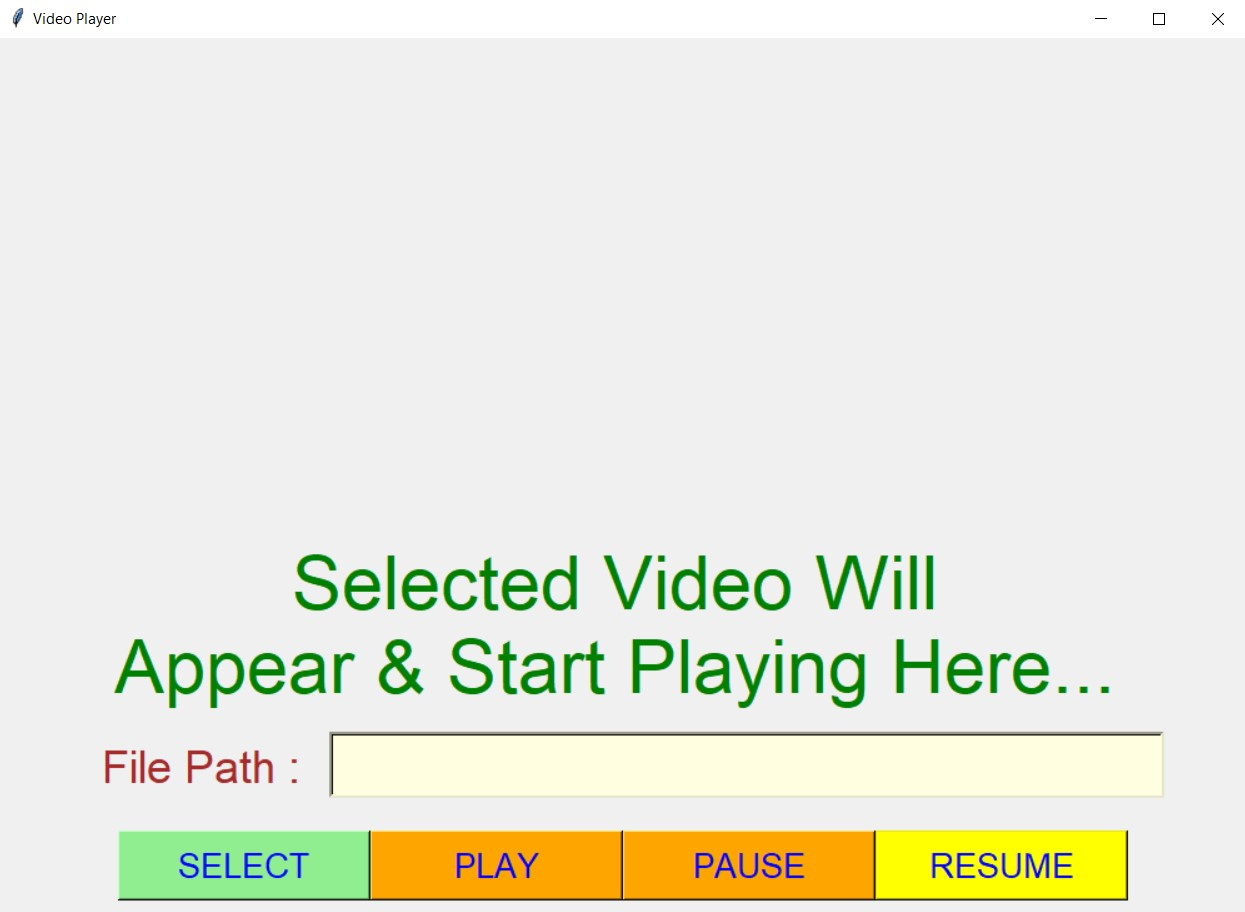
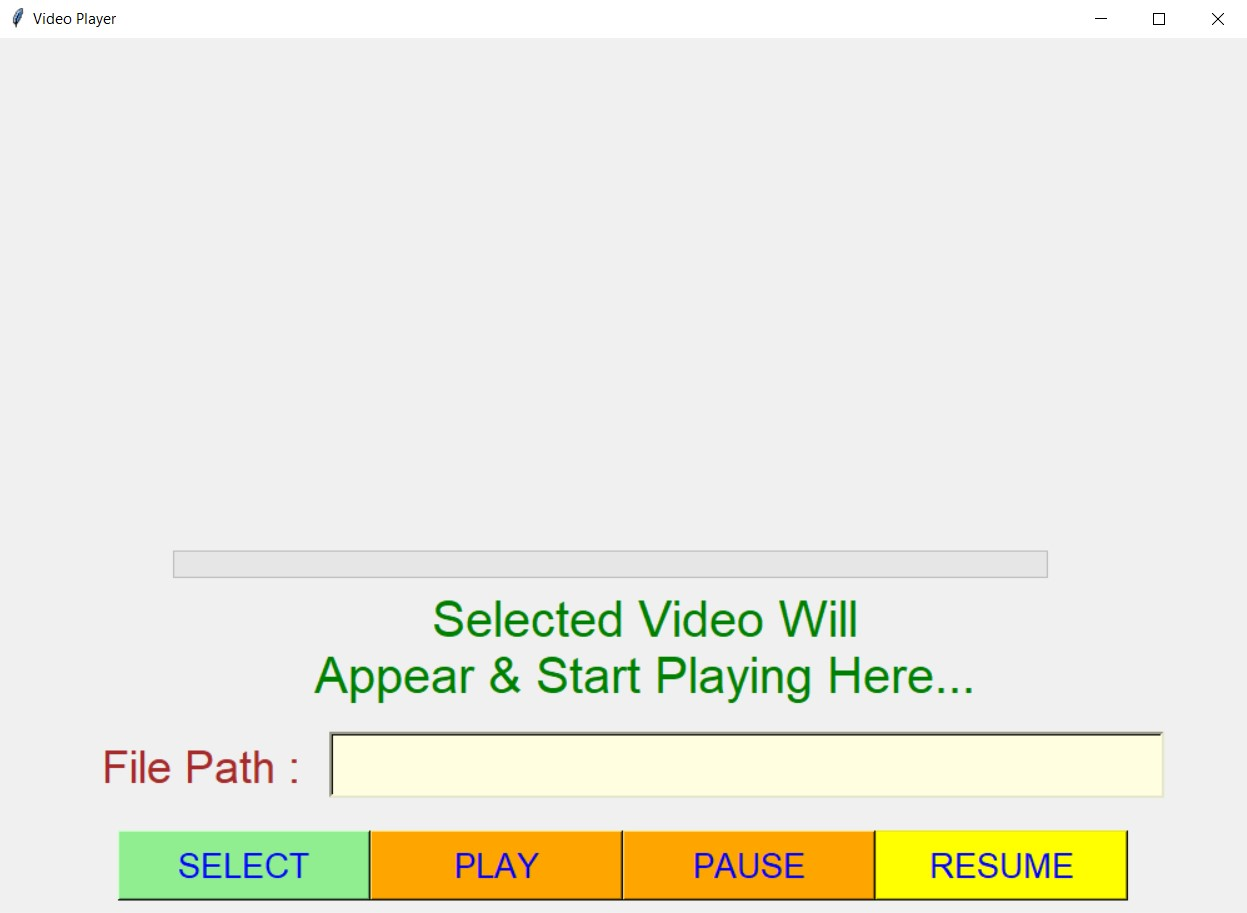
Added Progress bar in Video Player

Changed region(s): [[0.0916, 0.5833, 0.9157, 0.8596], [0.0916, 0.8904, 0.9157, 1.0]]

diff --git a/video_player.py b/video_player.py
@@ -10,12 +10,18 @@ from tkinter import ttk
 from tkinter import filedialog
 from PIL import ImageTk, Image
 import cv2
+import numpy as np
+from moviepy.editor import VideoFileClip
 
 
 # class videoGUI for playing video
 class videoGUI:
     # init function defined
     def __init__(self, window):
+
+        self.files = iter(np.arange(1, 10000))
+        self.pause1 = 0
+        self.downloaded = IntVar()
 
         self.window = window
         # self.window.title(window_title)
@@ -33,8 +39,19 @@ class videoGUI:
         self.entry1 = Entry(self.window, font=("Arial", 30), fg='orange', bg="light yellow", borderwidth=3, width=30)
         self.entry1.place(x=265, y=555)
 
-        self.lbl1 = tk.Label(self.window, text="Selected Video Will\nAppear & Start Playing Here...", font=("Arial", 45),fg="green")  # same way bg
-        self.lbl1.place(x=90, y=400)
+        # for progress bar -----------------
+        self.st1 = tk.Label(self.window, font=("Arial", 15), fg="brown")  # same way bg
+        self.st1.place(x=70, y=407)
+
+        self.ed1 = tk.Label(self.window, font=("Arial", 15), fg="brown")  # same way bg
+        self.ed1.place(x=850, y=407)
+
+        self.progress = ttk.Progressbar(self.window, length=700, orient='horizontal', maximum=5000,variable=self.downloaded, mode='determinate')
+        self.progress.place(x=140, y=410)
+        # ------------------------------------
+
+        self.lbl1 = tk.Label(self.window, text="Selected Video Will\nAppear & Start Playing Here...", font=("Arial", 30),fg="green")  # same way bg
+        self.lbl1.place(x=250, y=440)
 
         self.pause = False   # Parameter that controls pause button
 
@@ -67,6 +84,9 @@ class videoGUI:
         self.pause = False
 
         self.filename = filedialog.askopenfilename(title="Select file")
+        self.clip = VideoFileClip(self.filename)
+        self.st1.configure(text="00.00s")
+        self.ed1.configure(text=str(self.clip.duration) + "s")
         # print(self.filename)
         self.entry1.delete(0, END)
         self.entry1.insert(0,self.filename)
@@ -79,6 +99,18 @@ class videoGUI:
 
         self.canvas.config(width = self.width, height = self.height)
         mbox.showinfo("Status","File Selected successfully, click on PLAY button to play video.")
+        self.loading()
+
+    def loading(self):
+        global pause
+        if not self.pause:
+            try:
+                self.downloaded.set(next(self.files))  # update the progress bar
+                self.window.after(1, self.loading)  # call this function again in 1 millisecond
+            except StopIteration:
+                mbox.showinfo("Status", "Play Back completed.")
+                # the files iterator is exhausted
+                # root.destroy()
 
 
     # function defined to get the frame
@@ -106,6 +138,8 @@ class videoGUI:
 
         if not self.pause:
             self.window.after(self.delay, self.play_video)
+            # self.cnt = self.cnt + 0.01
+            # self.st1.configure(text=str(self.cnt))
 
 
     # function defined to pause video
@@ -117,7 +151,7 @@ class videoGUI:
     def resume_video(self):
         self.pause=False
         self.play_video()
-
+        self.loading()
 
     # Release the video source when the object is destroyed
     def __del__(self):

diff --git a/README_enhanced.md b/README_enhanced.md
@@ -1,0 +1,36 @@
+# ✔ VIDEO PLAYER
+- ### An Video Player is an application created in python with tkinter gui and OpenCv library.
+- ### In this application user can select any video (mp4, mkv, wmv, or any other format) and can play that video.
+- ### Along with that user will also get option to pause the video and also can resume the video from where paused.
+- ### For implementing this used OpenCv library.
+- ### Here user can also see the progress of the video in the progress bar just below the video.
+
+****
+
+# Changes Done :
+- ### Added progress par, where the progress of video will be shown, just below the video, when video playing starts.
+- ### Also user will be able see the duration of video in seconds just right to the progress bar.
+
+****
+
+# SCREENSHOTS :
+
+****
+
+<p align="center">
+  <img width = 1000 src="Images/1.jpg" /><br>
+  <img width = 1000 src="Images/2.jpg" /><br>
+  <img width = 1000 src="Images/3.jpg" /><br>
+  <img width = 1000 src="Images/4.jpg" /><br>
+  <img width = 1000 src="Images/5.jpg" /><br>
+  <img width = 1000 src="Images/6.jpg" /><br>
+  <img width = 1000 src="Images/7.jpg" /><br>
+  <img width = 1000 src="Images/8.jpg" /><br>
+  <img width = 1000 src="Images/9.jpg" /><br>
+</p>
+
+****
+
+# Author : 
+- ### Akash Ramanand Rajak
+

diff --git a/README.md b/README.md
@@ -46,6 +46,7 @@
   <img width = 1000 src="Images/6.jpg" /><br>
   <img width = 1000 src="Images/7.jpg" /><br>
   <img width = 1000 src="Images/8.jpg" /><br>
+  <img width = 1000 src="Images/9.jpg" /><br>
 </p>
 
 ****
